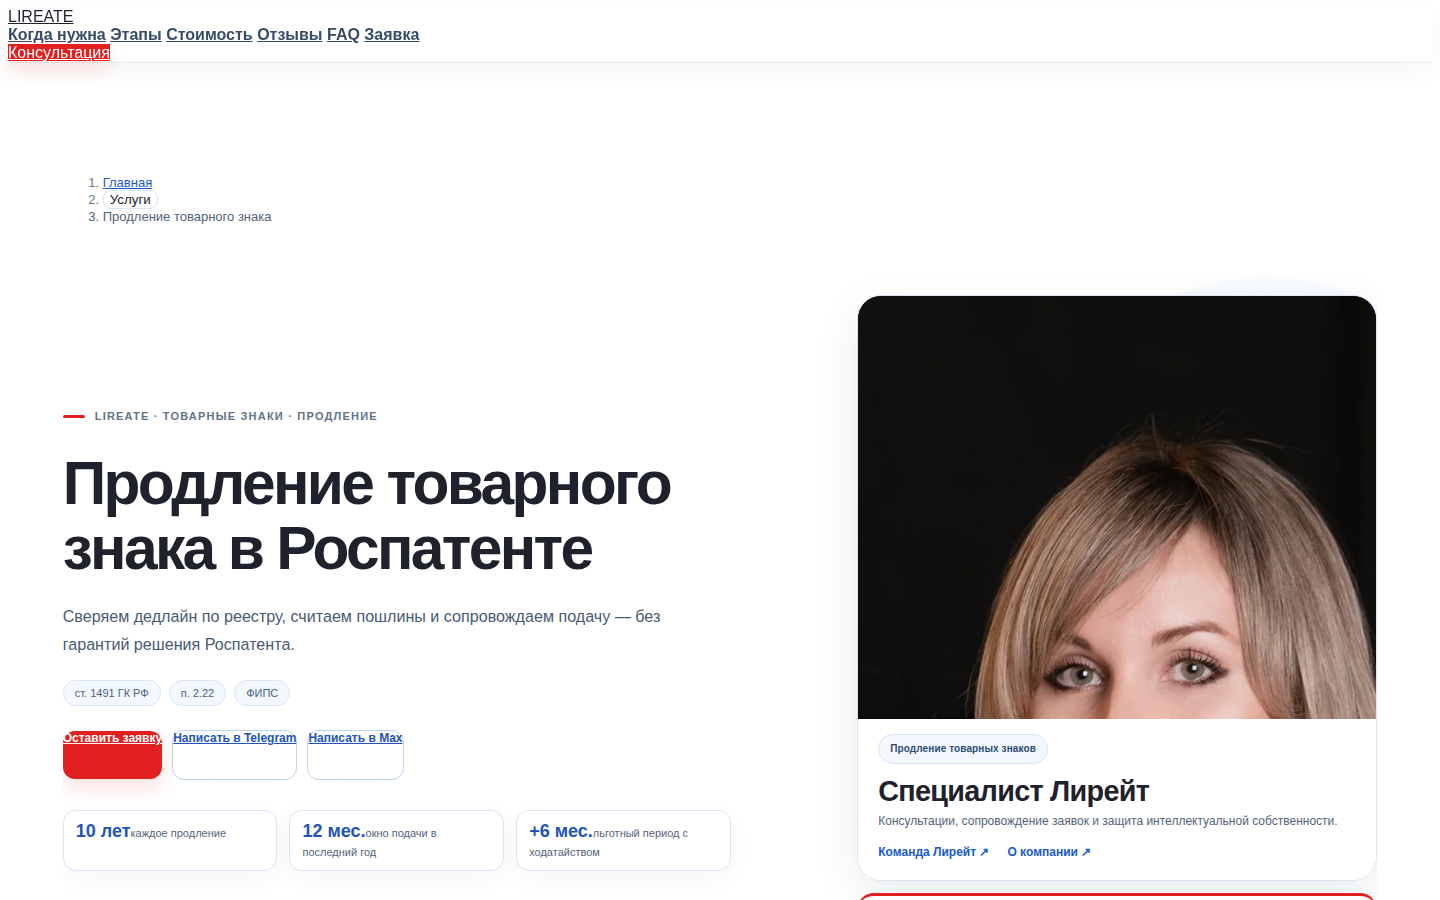
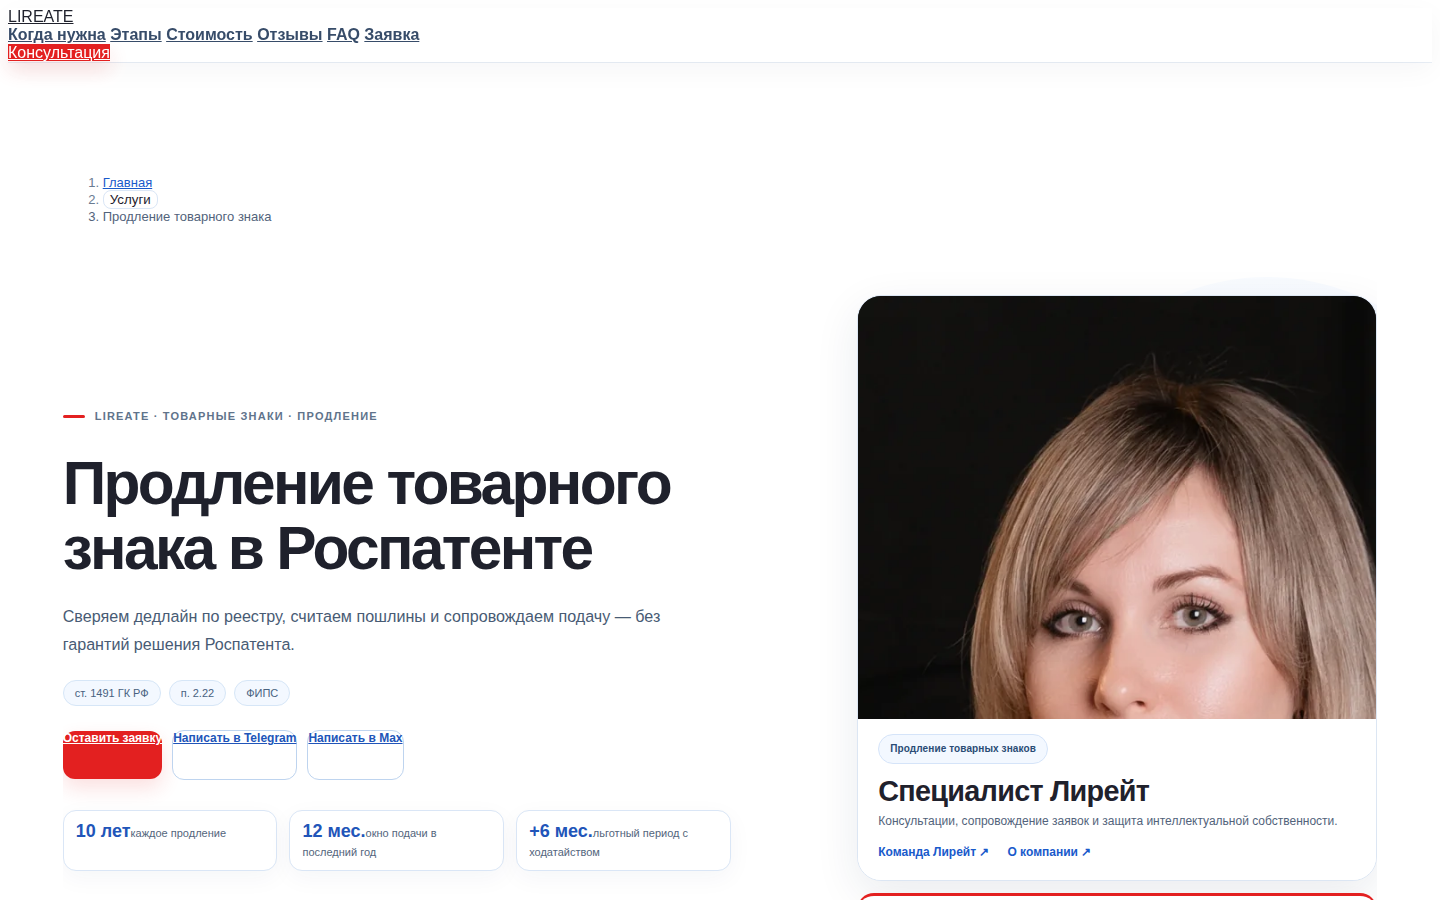
fix(six-photo-v4): кадр prolongation на mobile, cache v=20261126h

Changed region(s): [[0.6562, 0.4044, 0.9688, 0.8089]]

diff --git a/template/js/lireate-six-services-photo-v4.js b/template/js/lireate-six-services-photo-v4.js
@@ -14,7 +14,7 @@
   var PHOTO_FRAME={
     'specialist-certificate.webp':{focus:'50% 40%',zoom:'1.18',origin:'50% 42%'},
     'specialist-registraciya.webp':{focus:'50% 26%',zoom:'1.34',origin:'50% 30%'},
-    'specialist-prolongation.webp':{focus:'50% 26%',zoom:'1.34',origin:'50% 30%'},
+    'specialist-prolongation.webp':{focus:'50% 36%',zoom:'1.38',origin:'50% 38%'},
     'specialist-opposition.webp':{focus:'50% 26%',zoom:'1.34',origin:'50% 30%'},
     'specialist-copyright.webp':{focus:'50% 26%',zoom:'1.34',origin:'50% 30%'}
   };

diff --git a/scripts/lireate_six_services_photo_v4_install.py b/scripts/lireate_six_services_photo_v4_install.py
@@ -30,8 +30,8 @@ ASSETS = (
     'specialist-opposition', 'specialist-copyright'))
 INJECTION = (
     '\n<!-- ' + MARKER + ' -->\n'
-    '<link rel="stylesheet" href="/template/css/lireate-six-services-photo-v4.css?v=20261126g">\n'
-    '<script defer src="/template/js/lireate-six-services-photo-v4.js?v=20261126g"></script>\n'
+    '<link rel="stylesheet" href="/template/css/lireate-six-services-photo-v4.css?v=20261126h">\n'
+    '<script defer src="/template/js/lireate-six-services-photo-v4.js?v=20261126h"></script>\n'
 )
 HEAD_CLOSE = re.compile(r'</head\s*>', re.IGNORECASE)
 

diff --git a/scripts/capture_six_services_photo_v4_screenshots.py b/scripts/capture_six_services_photo_v4_screenshots.py
@@ -15,7 +15,7 @@ ROOT = Path(__file__).resolve().parents[1]
 OUT = ROOT / "docs/screenshots/six-services-v4"
 PORT = int(__import__("os").environ.get("LIREATE_SIX_PHOTO_V4_PORT", "19140"))
 MARKER = "lireate-six-services-photo-v4-20261126"
-CACHE_VER = "20261126g"
+CACHE_VER = "20261126h"
 
 
 def live_host() -> str:
